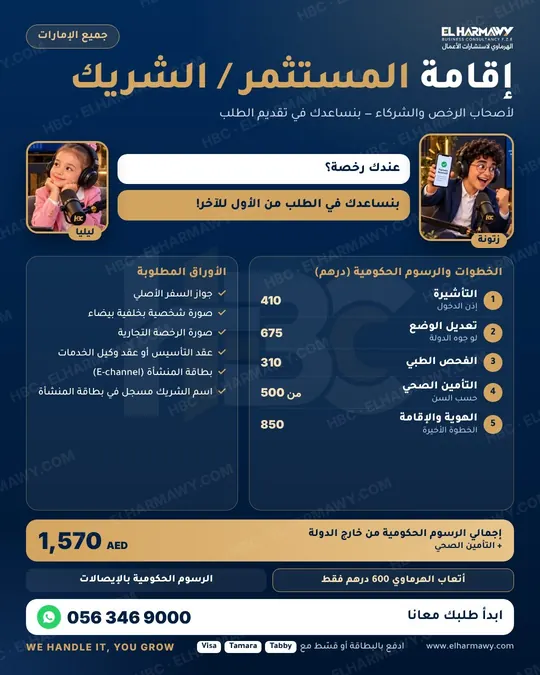
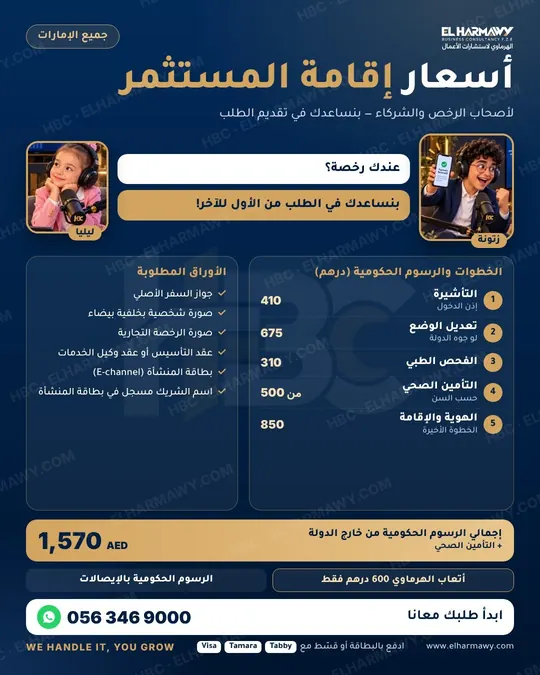
Investor poster and fee card retitled as investor visa fees
Claude-Session: https://claude.ai/code/session_01MtsGVKzBjK14nddn5v4Pte

Changed region(s): [[0.1185, 0.0622, 0.9481, 0.1556]]

diff --git a/index.html b/index.html
@@ -284,7 +284,7 @@
         <p><span data-l="en">We prepare your application, submit it to the relevant authority and follow it up with you. We do not sell or guarantee visas.</span><span data-l="ar">بنجهّز طلبك ونقدّمه للجهة الحكومية المختصة ونتابعه معاك. إحنا مش بنبيع إقامات ولا بنضمنها.</span> <span class="law-note"><span data-l="en">Approval is subject to UAE laws.</span><span data-l="ar">الموافقة تخضع لقوانين دولة الإمارات العربية المتحدة.</span></span></p>
       </div>
       <div class="vz-grid"><div class="vz-card reveal"><h3><span data-l="en">Investor / partner visa</span><span data-l="ar">إقامة مستثمر / شريك</span></h3><p><span data-l="en">For licence owners and partners: we help you apply for the establishment card, entry permit, medical, Emirates ID and stamping.</span><span data-l="ar">لصاحب الرخصة والشركاء: بنساعدك في تقديم طلبات بطاقة المنشأة، تصريح الدخول، الطبي، الهوية والختم.</span></p><a class="vz-link" href="#register" data-service="Typing, residency, medical &amp; insurance" data-offer="Investor / partner visa"><span data-l="en">Ask about it</span><span data-l="ar">اسأل عنها</span></a></div><div class="vz-card reveal"><h3><span data-l="en">Family sponsorship</span><span data-l="ar">كفالة العائلة</span></h3><p><span data-l="en">Applications for your wife, children and parents under your sponsorship, from documents to Emirates ID.</span><span data-l="ar">طلبات إقامة الزوجة والأولاد والأب والأم على كفالتك، من الأوراق لحد الهوية.</span></p><a class="vz-link" href="#register" data-service="Typing, residency, medical &amp; insurance" data-offer="Family sponsorship visa"><span data-l="en">Ask about it</span><span data-l="ar">اسأل عنها</span></a></div><div class="vz-card reveal"><h3><span data-l="en">Golden Visa (10 years)</span><span data-l="ar">الإقامة الذهبية (10 سنين)</span></h3><p><span data-l="en">For qualifying investors, including property owners from AED 2 million, and other eligible categories. Property investor visa through the Dubai Land Department: AED 10,102.88 all inclusive, in 7 to 10 working days. <a href="#visa-fees">See fees, documents and steps</a>.</span><span data-l="ar">للمستثمرين المؤهلين، ومنهم ملاك العقارات من 2 مليون درهم، وفئات تانية حسب الشروط. إقامة المستثمر العقاري عن طريق دائرة الأراضي والأملاك: 10,102.88 درهم شامل كل حاجة، في 7 لـ 10 أيام عمل. <a href="#visa-fees">شوف الرسوم والمستندات والخطوات</a>.</span></p><a class="vz-link" href="#register" data-service="Typing, residency, medical &amp; insurance" data-offer="Golden Visa"><span data-l="en">Ask about it</span><span data-l="ar">اسأل عنها</span></a></div><div class="vz-card reveal"><h3><span data-l="en">Property owner visa</span><span data-l="ar">إقامة مالك العقار</span></h3><p><span data-l="en">For owners of eligible property in the UAE, subject to the property value set by the authority.</span><span data-l="ar">لملاك العقارات المؤهلة في الإمارات، حسب قيمة العقار اللي بتحددها الجهة.</span></p><a class="vz-link" href="#register" data-service="Typing, residency, medical &amp; insurance" data-offer="Property owner visa"><span data-l="en">Ask about it</span><span data-l="ar">اسأل عنها</span></a></div><div class="vz-card reveal"><h3><span data-l="en">Retirement visa</span><span data-l="ar">إقامة التقاعد</span></h3><p><span data-l="en">For retirees who meet the income, savings or property conditions.</span><span data-l="ar">للمتقاعدين اللي بيستوفوا شروط الدخل أو المدخرات أو العقار.</span></p><a class="vz-link" href="#register" data-service="Typing, residency, medical &amp; insurance" data-offer="Retirement visa"><span data-l="en">Ask about it</span><span data-l="ar">اسأل عنها</span></a></div><div class="vz-card reveal"><h3><span data-l="en">Renewal & cancellation</span><span data-l="ar">تجديد وإلغاء</span></h3><p><span data-l="en">Visa renewal, cancellation, status change and Emirates ID updates, followed up until done.</span><span data-l="ar">تجديد وإلغاء الإقامات، تعديل الوضع، وتحديث الهوية، ومتابعة لحد الإنجاز.</span></p><a class="vz-link" href="#register" data-service="Typing, residency, medical &amp; insurance" data-offer="Visa renewal / cancellation"><span data-l="en">Ask about it</span><span data-l="ar">اسأل عنها</span></a></div></div>
-      <div class="rf" id="visa-fees"><h3 class="rf-h"><span data-l="en">Residency application steps and government fees, all emirates</span><span data-l="ar">خطوات طلب الإقامة والرسوم الحكومية، كل الإمارات</span></h3><p class="rf-sub"><span data-l="en">Government fees as published, paid at cost with official receipts. Our fee for preparing and following up each application: AED 600.</span><span data-l="ar">الرسوم الحكومية زي ما هي، بتتدفع بتكلفتها ومعاها الإيصالات الرسمية. أتعابنا على تجهيز ومتابعة كل طلب: 600 درهم.</span></p><div class="rf-grid"><div class="rf-card reveal"><a class="rf-img" href="img/res/family_ar.jpg" target="_blank" rel="noopener"><img data-l="ar" src="img/res/t/family_ar.webp" alt="" loading="lazy" width="540" height="675"><img data-l="en" src="img/res/t/family_en.webp" alt="" loading="lazy" width="540" height="675"></a><h3><span data-l="en">Family residence visa</span><span data-l="ar">إقامة أفراد الأسرة</span></h3><table class="rf-t"><tbody><tr><td><span data-l="en">Open sponsor file (first time; UAE national 310)</span><span data-l="ar">فتح ملف الكفيل (أول مرة؛ المواطن 310)</span></td><td dir="ltr">410</td></tr><tr><td><span data-l="en">Entry permit</span><span data-l="ar">التأشيرة (إذن الدخول)</span></td><td dir="ltr">410</td></tr><tr><td><span data-l="en">Change of status (if inside the UAE)</span><span data-l="ar">تعديل الوضع (لو جوه الدولة)</span></td><td dir="ltr">675</td></tr><tr><td><span data-l="en">Medical test (18+)</span><span data-l="ar">الفحص الطبي (فوق 18 سنة)</span></td><td dir="ltr">310</td></tr><tr><td><span data-l="en">Health insurance</span><span data-l="ar">التأمين الصحي</span></td><td dir="ltr">500+</td></tr><tr><td><span data-l="en">Emirates ID & visa stamp</span><span data-l="ar">الهوية والإقامة</span></td><td dir="ltr">896</td></tr></tbody></table><p class="rf-tot"><span data-l="en">Government fees from outside the UAE + insurance</span><span data-l="ar">الرسوم الحكومية من خارج الدولة + التأمين</span> <b dir="ltr">AED 2,026</b></p><p class="rf-note"><span data-l="en">Wife and children. Documents: passports, photo, employment contract or salary certificate, tenancy contract, attested marriage certificate (wife), birth certificate (children), UAE PASS.</span><span data-l="ar">الزوجة والأبناء. الأوراق: الجوازات، صورة شخصية، عقد العمل أو شهادة الراتب، عقد الإيجار، عقد الزواج المصدّق (للزوجة)، شهادة الميلاد (للأبناء)، UAE PASS.</span></p><a class="vz-link" href="#register" data-service="Typing, residency, medical &amp; insurance" data-offer="Family residence visa"><span data-l="en">Help me apply</span><span data-l="ar">ساعدني أقدّم</span></a></div><div class="rf-card reveal"><a class="rf-img" href="img/res/investor_ar.jpg" target="_blank" rel="noopener"><img data-l="ar" src="img/res/t/investor_ar.webp" alt="" loading="lazy" width="540" height="675"><img data-l="en" src="img/res/t/investor_en.webp" alt="" loading="lazy" width="540" height="675"></a><h3><span data-l="en">Investor / partner visa</span><span data-l="ar">إقامة المستثمر / الشريك</span></h3><table class="rf-t"><tbody><tr><td><span data-l="en">Entry permit</span><span data-l="ar">التأشيرة (إذن الدخول)</span></td><td dir="ltr">410</td></tr><tr><td><span data-l="en">Change of status (if inside the UAE)</span><span data-l="ar">تعديل الوضع (لو جوه الدولة)</span></td><td dir="ltr">675</td></tr><tr><td><span data-l="en">Medical test</span><span data-l="ar">الفحص الطبي</span></td><td dir="ltr">310</td></tr><tr><td><span data-l="en">Health insurance</span><span data-l="ar">التأمين الصحي</span></td><td dir="ltr">500+</td></tr><tr><td><span data-l="en">Emirates ID & visa stamp</span><span data-l="ar">الهوية والإقامة</span></td><td dir="ltr">850</td></tr></tbody></table><p class="rf-tot"><span data-l="en">Government fees from outside the UAE + insurance</span><span data-l="ar">الرسوم الحكومية من خارج الدولة + التأمين</span> <b dir="ltr">AED 1,570</b></p><p class="rf-note"><span data-l="en">The partner's name must be on the establishment card. Documents: passport, photo, trade licence, MOA or service agent agreement, E-channel.</span><span data-l="ar">لازم اسم الشريك يكون مسجل في بطاقة المنشأة. الأوراق: الجواز، صورة شخصية، الرخصة، عقد التأسيس أو عقد وكيل الخدمات، الإي تشانل.</span></p><a class="vz-link" href="#register" data-service="Typing, residency, medical &amp; insurance" data-offer="Investor / partner visa"><span data-l="en">Help me apply</span><span data-l="ar">ساعدني أقدّم</span></a></div><div class="rf-card reveal"><a class="rf-img" href="img/res/wshj2_ar.jpg" target="_blank" rel="noopener"><img data-l="ar" src="img/res/t/wshj2_ar.webp" alt="" loading="lazy" width="540" height="675"><img data-l="en" src="img/res/t/wshj2_en.webp" alt="" loading="lazy" width="540" height="675"></a><h3><span data-l="en">Employee residence visa</span><span data-l="ar">إقامة العامل</span></h3><table class="rf-t"><tbody><tr><td><span data-l="en">Offer letter</span><span data-l="ar">عرض العمل</span></td><td dir="ltr">280</td></tr><tr><td><span data-l="en">Labour card (category 1 / 2 / 3)</span><span data-l="ar">بطاقة العمل (الفئة 1 / 2 / 3)</span></td><td dir="ltr">250 / 1,200 / 3,450</td></tr><tr><td><span data-l="en">Entry permit</span><span data-l="ar">إذن الدخول</span></td><td dir="ltr">410</td></tr><tr><td><span data-l="en">Change of status (if inside the UAE)</span><span data-l="ar">تعديل الوضع (لو جوه الدولة)</span></td><td dir="ltr">675</td></tr><tr><td><span data-l="en">Medical test (17+)</span><span data-l="ar">الفحص الطبي (فوق 17 سنة)</span></td><td dir="ltr">305</td></tr><tr><td><span data-l="en">Tawjeeh class (non-skilled)</span><span data-l="ar">محاضرة التوجيه (لغير الماهر)</span></td><td dir="ltr">153</td></tr><tr><td><span data-l="en">ILOE insurance (2 years)</span><span data-l="ar">تأمين التعطل عن العمل (سنتين)</span></td><td dir="ltr">147</td></tr><tr><td><span data-l="en">Health insurance</span><span data-l="ar">التأمين الصحي</span></td><td dir="ltr">500+</td></tr><tr><td><span data-l="en">Emirates ID & visa stamp</span><span data-l="ar">الهوية والإقامة</span></td><td dir="ltr">896</td></tr></tbody></table><p class="rf-tot"><span data-l="en">Government fees from outside the UAE, category 2, Sharjah &amp; Ajman + insurance</span><span data-l="ar">الرسوم الحكومية من خارج الدولة، الفئة الثانية، الشارقة وعجمان + التأمين</span> <b dir="ltr">AED 3,238</b></p><p class="rf-note"><span data-l="en">Category 3: AED 5,488. Dubai (entry permit 1,175 + worker insurance 189): category 2 AED 4,192, category 3 AED 6,442. Inside the UAE add change of status AED 675. Documents: passport, photo, approved labour contract, labour card, medical result, E-channel.</span><span data-l="ar">الفئة الثالثة: 5,488 درهم. دبي (التأشيرة 1,175 + تأمين العمال 189): الفئة الثانية 4,192 والفئة الثالثة 6,442 درهم. لو جوه الدولة يضاف تعديل الوضع 675 درهم. الأوراق: الجواز، صورة شخصية، عقد العمل المعتمد، بطاقة العمل، نتيجة الطبي، الإي تشانل.</span></p><a class="vz-link" href="#register" data-service="Typing, residency, medical &amp; insurance" data-offer="Employee residence visa"><span data-l="en">Help me apply</span><span data-l="ar">ساعدني أقدّم</span></a></div><div class="rf-card reveal"><a class="rf-img" href="img/res/golden1_ar.jpg" target="_blank" rel="noopener"><img data-l="ar" src="img/res/t/golden1_ar.webp" alt="" loading="lazy" width="540" height="675"><img data-l="en" src="img/res/t/golden1_en.webp" alt="" loading="lazy" width="540" height="675"></a><h3><span data-l="en">Golden Visa 10 years, property investor (Dubai)</span><span data-l="ar">الإقامة الذهبية 10 سنوات للمستثمر العقاري (دبي)</span></h3><table class="rf-t"><tbody><tr><td><span data-l="en">DLD visa fees</span><span data-l="ar">رسوم دائرة الأراضي والأملاك</span></td><td dir="ltr">4,020.00</td></tr><tr><td><span data-l="en">Visa processing (Immigration)</span><span data-l="ar">معاملة الإقامة (الهجرة)</span></td><td dir="ltr">2,709.90</td></tr><tr><td><span data-l="en">Medical test VIP</span><span data-l="ar">الفحص الطبي VIP</span></td><td dir="ltr">705.86</td></tr><tr><td><span data-l="en">Emirates ID</span><span data-l="ar">الهوية الإماراتية</span></td><td dir="ltr">1,167.12</td></tr><tr><td><span data-l="en">Service &amp; admin fees</span><span data-l="ar">رسوم الخدمة والإدارة</span></td><td dir="ltr">1,500.00</td></tr></tbody></table><p class="rf-tot"><span data-l="en">Total, all inclusive</span><span data-l="ar">الإجمالي شامل كل حاجة</span> <b dir="ltr">AED 10,102.88</b></p><p class="rf-note"><span data-l="en">+ AED 100 per dependant on the current visa. 7 to 10 working days; stay inside the UAE from the Immigration step until the Emirates ID application. Documents: passport (6+ months), passport cover, current visa &amp; Emirates ID or entry visa, photo, title deed or initial contract of sale, bank NOC if mortgaged, attested marriage certificate if owned by spouses, health insurance.</span><span data-l="ar">+ 100 درهم لكل تابع على الإقامة الحالية. المدة من 7 لـ 10 أيام عمل، ولازم تكون جوه الدولة من خطوة الهجرة لحد طلب الهوية. الأوراق: الجواز (صالح 6 شهور)، غلاف الجواز، الإقامة والهوية الحالية أو تأشيرة الدخول، صورة شخصية، سند الملكية أو عقد البيع المبدئي، عدم ممانعة من البنك لو العقار مرهون، عقد زواج مصدّق لو العقار باسم الزوجين، التأمين الصحي.</span> <span class="law-note"><span data-l="en">Approval is subject to UAE laws.</span><span data-l="ar">الموافقة تخضع لقوانين دولة الإمارات العربية المتحدة.</span></span></p><p class="rf-note"><a href="img/res/golden2_ar.jpg" target="_blank" rel="noopener" data-l="ar">المستندات المطلوبة</a><a href="img/res/golden2_en.jpg" target="_blank" rel="noopener" data-l="en">Required documents</a> · <a href="img/res/golden3_ar.jpg" target="_blank" rel="noopener" data-l="ar">خطوات الإقامة</a><a href="img/res/golden3_en.jpg" target="_blank" rel="noopener" data-l="en">Step-by-step process</a></p><a class="vz-link" href="#register" data-service="Typing, residency, medical &amp; insurance" data-offer="Golden Visa 10 years - property investor"><span data-l="en">Help me apply</span><span data-l="ar">ساعدني أقدّم</span></a></div></div></div>
+      <div class="rf" id="visa-fees"><h3 class="rf-h"><span data-l="en">Residency application steps and government fees, all emirates</span><span data-l="ar">خطوات طلب الإقامة والرسوم الحكومية، كل الإمارات</span></h3><p class="rf-sub"><span data-l="en">Government fees as published, paid at cost with official receipts. Our fee for preparing and following up each application: AED 600.</span><span data-l="ar">الرسوم الحكومية زي ما هي، بتتدفع بتكلفتها ومعاها الإيصالات الرسمية. أتعابنا على تجهيز ومتابعة كل طلب: 600 درهم.</span></p><div class="rf-grid"><div class="rf-card reveal"><a class="rf-img" href="img/res/family_ar.jpg" target="_blank" rel="noopener"><img data-l="ar" src="img/res/t/family_ar.webp" alt="" loading="lazy" width="540" height="675"><img data-l="en" src="img/res/t/family_en.webp" alt="" loading="lazy" width="540" height="675"></a><h3><span data-l="en">Family residence visa</span><span data-l="ar">إقامة أفراد الأسرة</span></h3><table class="rf-t"><tbody><tr><td><span data-l="en">Open sponsor file (first time; UAE national 310)</span><span data-l="ar">فتح ملف الكفيل (أول مرة؛ المواطن 310)</span></td><td dir="ltr">410</td></tr><tr><td><span data-l="en">Entry permit</span><span data-l="ar">التأشيرة (إذن الدخول)</span></td><td dir="ltr">410</td></tr><tr><td><span data-l="en">Change of status (if inside the UAE)</span><span data-l="ar">تعديل الوضع (لو جوه الدولة)</span></td><td dir="ltr">675</td></tr><tr><td><span data-l="en">Medical test (18+)</span><span data-l="ar">الفحص الطبي (فوق 18 سنة)</span></td><td dir="ltr">310</td></tr><tr><td><span data-l="en">Health insurance</span><span data-l="ar">التأمين الصحي</span></td><td dir="ltr">500+</td></tr><tr><td><span data-l="en">Emirates ID & visa stamp</span><span data-l="ar">الهوية والإقامة</span></td><td dir="ltr">896</td></tr></tbody></table><p class="rf-tot"><span data-l="en">Government fees from outside the UAE + insurance</span><span data-l="ar">الرسوم الحكومية من خارج الدولة + التأمين</span> <b dir="ltr">AED 2,026</b></p><p class="rf-note"><span data-l="en">Wife and children. Documents: passports, photo, employment contract or salary certificate, tenancy contract, attested marriage certificate (wife), birth certificate (children), UAE PASS.</span><span data-l="ar">الزوجة والأبناء. الأوراق: الجوازات، صورة شخصية، عقد العمل أو شهادة الراتب، عقد الإيجار، عقد الزواج المصدّق (للزوجة)، شهادة الميلاد (للأبناء)، UAE PASS.</span></p><a class="vz-link" href="#register" data-service="Typing, residency, medical &amp; insurance" data-offer="Family residence visa"><span data-l="en">Help me apply</span><span data-l="ar">ساعدني أقدّم</span></a></div><div class="rf-card reveal"><a class="rf-img" href="img/res/investor_ar.jpg" target="_blank" rel="noopener"><img data-l="ar" src="img/res/t/investor_ar.webp" alt="" loading="lazy" width="540" height="675"><img data-l="en" src="img/res/t/investor_en.webp" alt="" loading="lazy" width="540" height="675"></a><h3><span data-l="en">Investor visa fees</span><span data-l="ar">أسعار إقامة المستثمر</span></h3><table class="rf-t"><tbody><tr><td><span data-l="en">Entry permit</span><span data-l="ar">التأشيرة (إذن الدخول)</span></td><td dir="ltr">410</td></tr><tr><td><span data-l="en">Change of status (if inside the UAE)</span><span data-l="ar">تعديل الوضع (لو جوه الدولة)</span></td><td dir="ltr">675</td></tr><tr><td><span data-l="en">Medical test</span><span data-l="ar">الفحص الطبي</span></td><td dir="ltr">310</td></tr><tr><td><span data-l="en">Health insurance</span><span data-l="ar">التأمين الصحي</span></td><td dir="ltr">500+</td></tr><tr><td><span data-l="en">Emirates ID & visa stamp</span><span data-l="ar">الهوية والإقامة</span></td><td dir="ltr">850</td></tr></tbody></table><p class="rf-tot"><span data-l="en">Government fees from outside the UAE + insurance</span><span data-l="ar">الرسوم الحكومية من خارج الدولة + التأمين</span> <b dir="ltr">AED 1,570</b></p><p class="rf-note"><span data-l="en">The partner's name must be on the establishment card. Documents: passport, photo, trade licence, MOA or service agent agreement, E-channel.</span><span data-l="ar">لازم اسم الشريك يكون مسجل في بطاقة المنشأة. الأوراق: الجواز، صورة شخصية، الرخصة، عقد التأسيس أو عقد وكيل الخدمات، الإي تشانل.</span></p><a class="vz-link" href="#register" data-service="Typing, residency, medical &amp; insurance" data-offer="Investor / partner visa"><span data-l="en">Help me apply</span><span data-l="ar">ساعدني أقدّم</span></a></div><div class="rf-card reveal"><a class="rf-img" href="img/res/wshj2_ar.jpg" target="_blank" rel="noopener"><img data-l="ar" src="img/res/t/wshj2_ar.webp" alt="" loading="lazy" width="540" height="675"><img data-l="en" src="img/res/t/wshj2_en.webp" alt="" loading="lazy" width="540" height="675"></a><h3><span data-l="en">Employee residence visa</span><span data-l="ar">إقامة العامل</span></h3><table class="rf-t"><tbody><tr><td><span data-l="en">Offer letter</span><span data-l="ar">عرض العمل</span></td><td dir="ltr">280</td></tr><tr><td><span data-l="en">Labour card (category 1 / 2 / 3)</span><span data-l="ar">بطاقة العمل (الفئة 1 / 2 / 3)</span></td><td dir="ltr">250 / 1,200 / 3,450</td></tr><tr><td><span data-l="en">Entry permit</span><span data-l="ar">إذن الدخول</span></td><td dir="ltr">410</td></tr><tr><td><span data-l="en">Change of status (if inside the UAE)</span><span data-l="ar">تعديل الوضع (لو جوه الدولة)</span></td><td dir="ltr">675</td></tr><tr><td><span data-l="en">Medical test (17+)</span><span data-l="ar">الفحص الطبي (فوق 17 سنة)</span></td><td dir="ltr">305</td></tr><tr><td><span data-l="en">Tawjeeh class (non-skilled)</span><span data-l="ar">محاضرة التوجيه (لغير الماهر)</span></td><td dir="ltr">153</td></tr><tr><td><span data-l="en">ILOE insurance (2 years)</span><span data-l="ar">تأمين التعطل عن العمل (سنتين)</span></td><td dir="ltr">147</td></tr><tr><td><span data-l="en">Health insurance</span><span data-l="ar">التأمين الصحي</span></td><td dir="ltr">500+</td></tr><tr><td><span data-l="en">Emirates ID & visa stamp</span><span data-l="ar">الهوية والإقامة</span></td><td dir="ltr">896</td></tr></tbody></table><p class="rf-tot"><span data-l="en">Government fees from outside the UAE, category 2, Sharjah &amp; Ajman + insurance</span><span data-l="ar">الرسوم الحكومية من خارج الدولة، الفئة الثانية، الشارقة وعجمان + التأمين</span> <b dir="ltr">AED 3,238</b></p><p class="rf-note"><span data-l="en">Category 3: AED 5,488. Dubai (entry permit 1,175 + worker insurance 189): category 2 AED 4,192, category 3 AED 6,442. Inside the UAE add change of status AED 675. Documents: passport, photo, approved labour contract, labour card, medical result, E-channel.</span><span data-l="ar">الفئة الثالثة: 5,488 درهم. دبي (التأشيرة 1,175 + تأمين العمال 189): الفئة الثانية 4,192 والفئة الثالثة 6,442 درهم. لو جوه الدولة يضاف تعديل الوضع 675 درهم. الأوراق: الجواز، صورة شخصية، عقد العمل المعتمد، بطاقة العمل، نتيجة الطبي، الإي تشانل.</span></p><a class="vz-link" href="#register" data-service="Typing, residency, medical &amp; insurance" data-offer="Employee residence visa"><span data-l="en">Help me apply</span><span data-l="ar">ساعدني أقدّم</span></a></div><div class="rf-card reveal"><a class="rf-img" href="img/res/golden1_ar.jpg" target="_blank" rel="noopener"><img data-l="ar" src="img/res/t/golden1_ar.webp" alt="" loading="lazy" width="540" height="675"><img data-l="en" src="img/res/t/golden1_en.webp" alt="" loading="lazy" width="540" height="675"></a><h3><span data-l="en">Golden Visa 10 years, property investor (Dubai)</span><span data-l="ar">الإقامة الذهبية 10 سنوات للمستثمر العقاري (دبي)</span></h3><table class="rf-t"><tbody><tr><td><span data-l="en">DLD visa fees</span><span data-l="ar">رسوم دائرة الأراضي والأملاك</span></td><td dir="ltr">4,020.00</td></tr><tr><td><span data-l="en">Visa processing (Immigration)</span><span data-l="ar">معاملة الإقامة (الهجرة)</span></td><td dir="ltr">2,709.90</td></tr><tr><td><span data-l="en">Medical test VIP</span><span data-l="ar">الفحص الطبي VIP</span></td><td dir="ltr">705.86</td></tr><tr><td><span data-l="en">Emirates ID</span><span data-l="ar">الهوية الإماراتية</span></td><td dir="ltr">1,167.12</td></tr><tr><td><span data-l="en">Service &amp; admin fees</span><span data-l="ar">رسوم الخدمة والإدارة</span></td><td dir="ltr">1,500.00</td></tr></tbody></table><p class="rf-tot"><span data-l="en">Total, all inclusive</span><span data-l="ar">الإجمالي شامل كل حاجة</span> <b dir="ltr">AED 10,102.88</b></p><p class="rf-note"><span data-l="en">+ AED 100 per dependant on the current visa. 7 to 10 working days; stay inside the UAE from the Immigration step until the Emirates ID application. Documents: passport (6+ months), passport cover, current visa &amp; Emirates ID or entry visa, photo, title deed or initial contract of sale, bank NOC if mortgaged, attested marriage certificate if owned by spouses, health insurance.</span><span data-l="ar">+ 100 درهم لكل تابع على الإقامة الحالية. المدة من 7 لـ 10 أيام عمل، ولازم تكون جوه الدولة من خطوة الهجرة لحد طلب الهوية. الأوراق: الجواز (صالح 6 شهور)، غلاف الجواز، الإقامة والهوية الحالية أو تأشيرة الدخول، صورة شخصية، سند الملكية أو عقد البيع المبدئي، عدم ممانعة من البنك لو العقار مرهون، عقد زواج مصدّق لو العقار باسم الزوجين، التأمين الصحي.</span> <span class="law-note"><span data-l="en">Approval is subject to UAE laws.</span><span data-l="ar">الموافقة تخضع لقوانين دولة الإمارات العربية المتحدة.</span></span></p><p class="rf-note"><a href="img/res/golden2_ar.jpg" target="_blank" rel="noopener" data-l="ar">المستندات المطلوبة</a><a href="img/res/golden2_en.jpg" target="_blank" rel="noopener" data-l="en">Required documents</a> · <a href="img/res/golden3_ar.jpg" target="_blank" rel="noopener" data-l="ar">خطوات الإقامة</a><a href="img/res/golden3_en.jpg" target="_blank" rel="noopener" data-l="en">Step-by-step process</a></p><a class="vz-link" href="#register" data-service="Typing, residency, medical &amp; insurance" data-offer="Golden Visa 10 years - property investor"><span data-l="en">Help me apply</span><span data-l="ar">ساعدني أقدّم</span></a></div></div></div>
       <p class="vz-note"><span data-l="en">Eligibility, fees and final approval are set by the relevant authority (ICP / GDRFA). Government fees are charged separately.</span><span data-l="ar">الأهلية والرسوم والموافقة النهائية بتحددها الجهة المختصة (الهيئة الاتحادية / إقامة دبي). الرسوم الحكومية بتتحسب لوحدها.</span></p>
     </div>
   </section>
